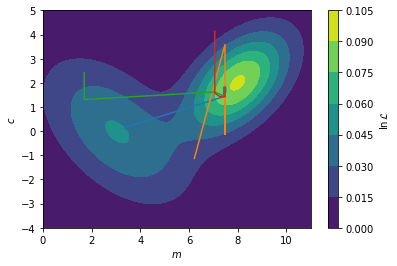
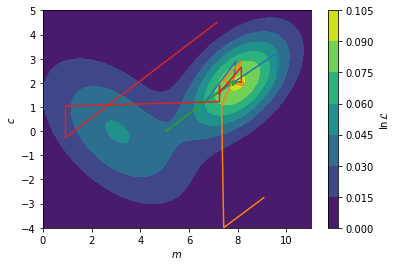
deploy: 765b48756c8c300f2725dfa39036137ef8b84e3c

diff --git a/searchindex.js b/searchindex.js
@@ -1,1 +1,1 @@
-Search.setIndex({docnames:["1_the_fourier_transform/an_introduction_to_fourier_transforms","1_the_fourier_transform/fourier_transforms_for_reflectometry_analysis","2_model_dependent_analysis/what_is_model_dependent_analysis","3_reflectometry_slab_models/how_we_calculate_the_reflectivity_of_a_slab_model","3_reflectometry_slab_models/roughness_and_microslicing","3_reflectometry_slab_models/the_slab_model","4_model_reparameterisation/a_case_for_model_reparameterisation","4_model_reparameterisation/niti_multilayer_example","4_model_reparameterisation/phospholipid_monolayer_example","5_fitting_processes_and_problems/how_do_we_maximise_the_likelihood","5_fitting_processes_and_problems/how_to_leverage_our_prior_knowledge","5_fitting_processes_and_problems/what_is_the_likelihood","contributors","intro"],envversion:{"sphinx.domains.c":2,"sphinx.domains.changeset":1,"sphinx.domains.citation":1,"sphinx.domains.cpp":5,"sphinx.domains.index":1,"sphinx.domains.javascript":2,"sphinx.domains.math":2,"sphinx.domains.python":3,"sphinx.domains.rst":2,"sphinx.domains.std":2,"sphinx.ext.intersphinx":1,"sphinxcontrib.bibtex":9,sphinx:56},filenames:["1_the_fourier_transform/an_introduction_to_fourier_transforms.md","1_the_fourier_transform/fourier_transforms_for_reflectometry_analysis.ipynb","2_model_dependent_analysis/what_is_model_dependent_analysis.md","3_reflectometry_slab_models/how_we_calculate_the_reflectivity_of_a_slab_model.ipynb","3_reflectometry_slab_models/roughness_and_microslicing.ipynb","3_reflectometry_slab_models/the_slab_model.md","4_model_reparameterisation/a_case_for_model_reparameterisation.md","4_model_reparameterisation/niti_multilayer_example.ipynb","4_model_reparameterisation/phospholipid_monolayer_example.ipynb","5_fitting_processes_and_problems/how_do_we_maximise_the_likelihood.ipynb","5_fitting_processes_and_problems/how_to_leverage_our_prior_knowledge.md","5_fitting_processes_and_problems/what_is_the_likelihood.ipynb","contributors.md","intro.md"],objects:{},objnames:{},objtypes:{},terms:{"0":[1,3,4,8,9,10,11,13],"000":9,"00039":13,"001":[1,3,4],"00260":13,"003":13,"0053":13,"007":13,"012":13,"01980001503076100":13,"02":13,"022":[7,13],"02614057":9,"0294":13,"03":13,"033":9,"04493869":9,"0469":13,"04893":13,"0496667614679125":11,"06":[4,7],"07":13,"074":1,"074e":[1,4],"078":13,"092":9,"0j":[3,4],"1":[0,1,3,4,7,8,9,10,11,13],"10":[1,4,7,9,11,13],"1000":[1,3,8,9,11],"1008202821328":13,"1016":13,"1023":13,"1039":13,"104":1,"1051":13,"107":13,"108":13,"1098":13,"11":[9,13],"1103":13,"1107":13,"1119":13,"1198":13,"12":[4,11,13],"1204":13,"14":4,"15":[8,13],"155":13,"16":[1,3],"167":9,"17":4,"1761":13,"1763":13,"18":[8,13],"186":1,"186e":[1,3,4],"19":[8,9,13],"193":13,"1948":13,"194812030504":13,"1954":13,"197":13,"1980":13,"1997":13,"1998":13,"1999":13,"1e":4,"1f77b4":11,"1j":[1,3],"2":[1,2,3,4,7,9,11,13],"20":[1,3,4],"200":[1,3,4,13],"2005":13,"2006":13,"2007":13,"2010":13,"2011":13,"2018":13,"2019":13,"2021":13,"2022":13,"20384101638663543":11,"204":13,"21":13,"23":7,"248":13,"25e":4,"265":8,"265n_c":8,"2827":13,"2848":13,"297":13,"2k_nk_":4,"3":[1,3,4,5,7,9,11,13],"300":[1,3],"311":13,"3254017":13,"33":13,"338":13,"339":13,"341":13,"342":13,"357":13,"359":13,"369":13,"370":13,"3blue1brown":0,"3e":7,"4":[1,3,4,5,7,9,11,13],"40":13,"41":13,"417":7,"417e":7,"418":13,"42":[11,13],"42370197":9,"4245e":4,"434":13,"438":7,"44":13,"4526":13,"47":[7,13],"471":13,"5":[1,3,4,8,9],"50":4,"500":[1,3,4],"504":13,"51":7,"52":13,"520":13,"53":13,"531":13,"54":13,"58":7,"59":13,"596":13,"5q":3,"6":[1,3,4,7,9,13],"6133":13,"6141":13,"63254653":9,"648":13,"649":13,"69":7,"7":[4,8,9,11],"761":13,"779":13,"78":13,"8":[4,7,9,11],"856832":13,"867":7,"87":13,"871":1,"871e":[3,4],"9":[4,7,13],"90":8,"908":7,"91":7,"922868":13,"95":13,"951e":7,"978":13,"98":[1,13],"99":13,"9957561":9,"99615666":9,"99998503":9,"99999727":9,"\u00e0":13,"\u00e5":[0,1,3,4,7,8],"\u00e8":13,"\u00e9":13,"\u00f6":13,"\u00fc":13,"abel\u00e8":[3,4],"abstract":7,"br\u00f6hl":13,"case":[5,10],"do":[1,2],"float":[7,9,11],"function":[1,2,3,4,5,8,9,11],"import":[1,2,3,4,5,6,7,8,9,11],"int":1,"new":13,"return":[1,3,7,9,11],"switch":13,"true":[6,9],"try":9,"while":[6,7],A:[1,2,4,5,7,8,9,13],As:[5,8],Be:9,By:2,For:[1,7,8,11,13],If:[1,2,9,10,11,13],In:[1,5,6,8,9,10,13],It:[2,4,5,8,9,10],No:4,One:8,The:[0,2,3,4,6,7,8,9,11,13],Then:[1,2,3],There:[4,9],These:[1,4,9],To:[1,4,6],_:[1,3],ab:[1,3],abel:[3,4,13],abeles48:[3,13],abeles_with_rough:4,abl:4,about:[6,8,9,10],abov:[1,2,4,7,9,11],abscissa:11,absolut:9,academ:13,accept:[1,10],account:4,accur:[2,4,6],acf2:1,acf:1,achiev:[4,8,10],across:11,act:8,action:1,ad:8,adapt:4,add:8,add_patch:4,addit:[1,6,8],addition:[2,3,4,6,7,9],admittedli:4,advanc:13,affect:8,after:[1,9],again:[1,4],against:5,agnet:13,agre:11,agreement:[2,9,11],aid:3,aim:[9,11,13],air:[1,4,8,13],al:6,alexand:12,algorithm:[2,9,10,13],all:[0,3,9,10],allow:[6,7,8,9],alon:9,alonso:13,alpha:11,alreadi:[2,10],also:[4,7,8],although:1,am:13,amphiphil:8,an:[2,4,5,6,9,10,13],analog:[0,9,11],analys:[9,13],analysi:[3,5,7,8,9,10,11,13],analyt:2,andbook:13,andrew:[12,13],angstrom:7,ani:[4,11],ann:13,anomagnet:13,anoth:1,anphi:13,apm:8,append:9,appl:13,appli:[1,2,4,6,8,9,13],applic:[3,9,13],approach:[1,2,3,4,5,6,7,8,9,13],approx:1,approxim:[3,13],ar:[0,1,2,3,4,5,6,7,8,9,10,11,13],area:6,argmax:9,argsort:9,armstrong:12,arnold:[12,13],around:4,arrai:[1,3,4,7,9],artefact:4,artifici:13,artur:12,ask:13,assembl:8,assess:9,assign:7,associ:[10,11,13],assum:8,assumpt:[2,6,7,8],ateri:13,atom:[7,8],attach:8,attent:13,australian:12,autocorrel:1,avail:1,avogadro:7,awar:[2,9],ax:[4,11],axhlin:1,b:[3,7,13],b_:[3,7],b_i:[7,8],b_ni:7,b_ti:7,back:9,balakrishnan:12,bar:[3,11],base:[2,3,7],basic:13,bay:[10,13],bayesian:[10,13],becom:[1,9],been:[1,3,4,7,8],befor:[0,4,5],begin:3,being:[2,4,11,13],belief:10,believ:2,below:[0,1,3,4,5,7,8,9,11],benefit:8,berk:13,best:[8,9,11],beta:[1,3,4,7,8],beta_0:3,beta_1:5,beta_2:5,beta_:[1,7,8],beta_i:8,beta_microsl:4,beta_n:3,beta_ni:7,beta_ti:7,between:[0,1,2,3,4,5,9,11,13],bia:2,bias:10,bigg:[1,11],biolog:[9,13],bj:13,bjorck11:[9,13],black:[1,9],block:13,blue:[1,9,11],bmatrix:3,book:[1,10,13],born:[3,13],borrow:1,both:[8,13],bound:[7,10],bowen:13,bp63:[10,13],brian:12,bring:3,broad:[2,11],broadli:2,brought:3,bsd:3,c9cp00203k:13,c:[1,9,11,13],calcul:[1,2,4,5,8,11],call:5,callback:9,campbel:13,can:[1,2,3,4,5,6,7,8,9,10,11],cannot:[4,11],caract:13,carbon:8,carefulli:9,caruana:12,cation:13,catter:13,caus:8,caution:6,cdot:7,centr:12,chanc:13,chang:[1,2,9],character:13,characterist:3,characteristic_matric:3,chem:13,chemic:[5,6,13],chemistri:2,chi:11,chicago:12,circ:8,clark:13,clear:[2,4,5,9],clearer:3,clearli:4,clifton:13,close:3,cm:7,coci:13,code:[4,7,9,13],colloid:13,color:11,colorbar:9,comfort:13,common:[2,4,5,7,8,9],commonli:[6,9,11],companion:13,compar:[2,3,4,6,11],comparison:5,complementari:6,complet:[2,9],complex:[3,8,9,13],composit:8,computation:9,concept:6,conclus:9,condens:13,conj:3,conjug:3,consid:[1,2,3,4,5,7,8,9,10,11],consider:9,consist:[5,7,8],constant:[2,7,10],constrain:[7,8],constraint:[6,8],construct:[2,3,5,10],consult:8,content:13,context:2,continu:13,contourf:9,contrast:9,contribut:13,convers:6,cooper:12,could:[5,10],coupl:9,cours:13,cover:[2,13],creat:4,croce:[4,13],crystallogr:13,crystallographi:1,css:[8,13],cubitt:13,curr:13,current:[9,13],current_theta:9,curve_fit:11,d:[1,3,4,11,13],d_1:5,d_2:5,d_h:8,d_i:8,d_microsl:4,d_n:3,d_t:8,dan:13,data:[1,2,3,4,5,6,7,8,9,10,11,13],databas:7,datapoint:11,dataset:[9,11],de:13,decomposit:0,deep:13,def:[1,3,7,9,11],defin:[1,2,5,6,7,8,11],deg2rad:8,delta:1,denot:1,densiti:[1,3,4,5,6,8],depend:[5,7,8,9,10,11,13],deposit:7,deriv:[1,5],descent:9,describ:[2,3,4,5,6,9,10,11],descript:[1,6,8],design:10,desir:[7,9],deslatt:13,destruct:5,detail:[0,1,2],detector:5,determin:[3,9,13],develop:13,deviat:[3,11],devind:[1,10,13],diatom:2,diff:[1,3],differ:[1,4,5,13],differenti:[9,10,13],differential_evolut:9,difficult:8,dimens:[1,5],dimension:9,dioxid:[1,4],directli:7,discoveri:9,discuss:[1,4,5,11],disposit:7,distribut:[9,11],divid:1,docstr:3,doctrin:13,doe:[2,3,4],doi:13,domain:0,done:11,dot:11,downhil:9,dppc:8,dr:[1,10],draw:[9,13],dtype:3,du:13,due:[1,2],dura:13,dvanc:13,e:[5,13],each:[3,4,5,7,8],easili:[7,9],edgecolor:4,edit:13,editor:13,edler:13,effect:[1,4,9,13],effici:13,eflect:13,elast:0,element:[7,11],elementari:[1,13],eleph:13,els:2,enabl:[4,10],encount:[2,9],end:3,ensur:[2,9],entir:2,enumer:11,enzym:2,equat:[1,2],error:[4,11],errorbar:11,essai:13,essenti:0,estim:1,et:6,euroepan:12,european:13,eutect:13,eutron:13,evalu:[7,13],eventu:9,ever:2,everi:8,evolut:[9,10,13],evolutionari:9,exampl:[2,4,5,6,9,10],exhaust:13,exist:[4,9],exp:[1,3,4],expect:[2,10],experi:[2,13],experiment:[2,5,6,11],expert:13,explicitli:1,exploit:13,extend:8,extrem:8,f:[3,7,13],fact:10,factor:[3,11],fair:2,fals:4,familiar:[1,2,6],fantast:1,far:11,fashion:9,feed:9,feedback:13,feel:13,fernandez:13,ff7f0e:11,field:[8,13],fig:[2,4,5,8,11],figsiz:[4,11],figur:[1,2,4,9,11,13],fill:4,fill_between:11,find:[1,2,4,7,8,9,10,11,13],first:[1,2,3,5,6,7,9,11],fit:[2,6,7,9,11],fitzsimmon:13,flat:[1,4],flavour:[6,9],flexion:13,flow:2,fm05:13,fm:7,focus:0,follow:[1,7,8,9,11,13],forc:2,form:[1,9],formal:[3,4],format:13,found:[1,3,4,7,8,9,10],four:13,fourier:[2,3,5,13],fourier_transform:1,frac:[1,3,4,7,8,10,11],fraction:8,francoi:12,free:[6,9,13],frensel:3,fresnel:[3,4],fresnel_reflect:3,from:[0,1,2,3,4,5,6,7,8,9,11,13],full:1,fulli:8,fundament:[0,5],further:[9,10],g:[7,13],gaetano:12,garbag:2,gcm:7,gener:[2,9,13],genet:13,geometri:5,gerelli:13,get:[2,11],github:13,give:[0,3,6,13],given:[4,5,8,9,11],glavic:12,glob:13,global:[9,13],go:[3,5,9],good:11,gradient:11,gradient_callback:9,gradient_v:9,gradual:13,graphic:7,great:[0,10],greater:1,group:8,grutter:12,guess:9,guntherodt:13,h:13,ha:[1,4,7,8,13],hall:12,hand:4,hard:7,harder:9,have:[1,2,3,8,9,10,11],head:8,heavili:[8,11,13],heavisid:1,heinrich:13,helmholtz:12,helper:[4,9],henc:[0,11],henomena:13,here:[3,11],hereon:12,heurist:13,higher:8,hoogerheid:13,hopefulli:5,horizont:1,how:[2,5,6,8,11,13],howard:13,howev:[1,2,4,5,6,7,9,11],hydrocarbon:8,hydrophil:8,hydrophob:[8,13],i:[1,3,5,7,8,11],identifi:4,ignor:4,illinoi:12,impact:[0,4],implement:[3,4,9],impli:4,impos:10,improv:2,inaccur:4,incid:[1,5],includ:[0,2,3,7,8,13],incorrectli:4,increas:[4,9,11],independ:2,indic:[1,9,11],individu:[3,7],induc:13,influenc:4,inform:[1,6,13],infti:1,inher:2,initi:9,input:3,insect:9,insight:[2,13],insolubl:8,inspir:9,instead:[1,3,7,9,10],institut:12,instrument:8,integr:10,intens:[1,9],interact:[0,1],intercal:8,intercept:11,interest:[0,2,13],interfac:[3,4,5,8,13],interfer:5,interpret:[2,4],interrog:[4,9],introduc:[2,4,5,6,8,10],introduct:10,inv_fourier_transform:1,invers:[1,13],investig:[1,2,6,9],involv:[5,7],isbn:13,isi:[12,13],isotop:9,issu:[1,13],its:7,j:13,jackson:13,jci:13,jean:12,john:[6,13],joshaniel:12,jpsc21:[6,13],k0:3,k:[1,3,9,13],k_0:3,k_:[3,4],k_n:[3,4],karin:13,khairi:13,kienzl:13,kinet:2,kn:3,knowledg:13,known:[2,4,8],kronm:13,l:[9,10,11,13],la:13,label:[1,3,4,9],lak19:13,lakei:13,languag:[6,13],larg:[1,13],later:[5,7],latter:6,lawrenc:13,layer:[3,4,5,7,8],le:13,lead:[0,2,4,5],leak:4,learn:8,lectromagn:13,lectur:13,left:4,legend:[1,3,4],length:[1,3,4,5,6,8],less:5,let:[0,1,10],licens:3,light:13,like:[2,4,8,10],likelihood:10,limit:[1,2,7,8],line:[1,9,11],linearli:11,linspac:[1,3,4,8,9,11],lipid:13,liquid:13,list:13,literatur:8,ller:13,ln:[9,11],loadtxt:11,local:9,log:[1,3,4,11],logic:[2,10,13],logpdf:9,lond:13,look:[0,1,2,3,6,9,10,11],loss:1,lost:5,lovel:13,low:3,lr99:[2,13],ls:11,lw:11,m:[3,9,11,13],m_:[3,7],m_w:7,m_w_ni:7,m_w_ti:7,made:[2,6,7],magnet:13,magnitud:1,mai:[1,2,6,7,11,13],majkrzak:13,major:[7,11],make:[2,3,6,8,13],mangiapia:12,mani:[9,13],maranvil:12,mark:12,marker:11,mass:6,match:1,materi:[1,3,4,5,7],mathcal:[9,10,11],mathemat:13,mathit:[1,3],mathrm:[1,3,7,8,11],matnei:13,matplotlib:[1,3,4,8,9,11],matric:3,matrix:[3,4],matter:[7,13],matyszewska:13,max:[1,3,11],maxima:9,maximilian:12,maximis:[10,11],maximum:[8,9,10,11],mayer:13,mbd:[1,13],mccluskei:[12,13],mead:9,mean:[1,4,7,8,9,11],measur:[0,1,2,5,6,10,11,13],media:3,member:9,membran:13,menten:2,mention:8,merit:2,meshgrid:9,method:[3,4,13],methodolog:[1,2,4,9],metri:13,metric:[9,11],micel:13,micha:2,might:[2,13],milieux:13,minim:9,minimis:[9,11],minimum:[9,10],mkh10:[2,13],modal:9,model:[1,4,7,8,9,10,11,13],modifi:[3,4],modul:[4,9],mol:7,molecul:[2,6],molecular:7,monolay:13,more:[0,2,4,6,7,8,9,10,11],most:[3,4,5,9],moulin:12,move:9,movement:13,msfe:[8,13],much:[3,5],multi:9,multivariate_norm:9,muon:12,must:[2,4,8],mv1:9,mv2:9,mv:9,n:[3,4,7,8,11,13],n_:[3,11],n_a:7,n_c:8,nanostructur:13,nation:12,natur:[6,8],nazaruk:13,ndarrai:[1,3,7,9,11],nearbi:9,necessari:[3,4,9],need:2,neg:9,nelder:9,nelson:[12,13],neutron:[0,1,2,3,5,6,7,9,12],nevot:4,nevotc80:[4,13],newaxi:[1,3],ni:7,nickel:[4,7],nll:9,nois:1,noisi:1,non:9,none:9,norm:11,normal:[1,3,9,11],normal_wavevector:3,normalis:[1,11],note:[1,2,8,9],notic:[4,11],now:[0,3,4,8,9,11],np19:[3,13],np:[1,3,4,7,8,9,11],nuanc:5,number:[1,6,7,8,9,11],number_lay:3,number_q:3,numpi:[1,3,4,7,8,9,11],o:11,observ:[1,4,5,11],obtain:[1,4,7],obvious:5,offer:2,often:13,olar:13,onc:[9,13],ond:13,one:[8,9,10,11],ones:3,ones_lik:4,onli:[1,4,7,8,11],onlin:7,open:13,opin:13,opinion:13,optim:[9,11,13],optimis:[8,9],optimum:9,orang:[9,11],order:[5,9],organis:13,origin:13,other:[8,11],our:[1,2,4,5,6,7,8,9,11],out:[2,10],outsid:10,over:13,overal:[3,9,11],overview:0,oxford:13,p0:3,p1:3,p:[10,11,13],packag:[3,7],page:13,pai:13,panaccion:13,paper:13,par54:[3,13],par:13,param:[1,3,7,11],paramet:[3,4,5,6,7,8,9,10,11,13],parameteris:[6,8,13],pari:13,parker:13,parkin:13,parratt:[3,13],part:[1,11],particl:9,particular:[5,6],particularli:13,patch:4,path:[5,9],pattern:[0,5],paul:12,pdf:[9,11],peak:1,pedulla:13,per:6,perfect:4,perfectli:4,perform:[0,1,11],perpendicular:1,pg:1,phase:[1,2,3,13],phase_factor:3,phi:3,phi_0:3,phi_i:8,phi_n:3,phi_t:3,phil:13,phospholipid:13,phy:13,physic:[1,2,5,6,8,13],physica:13,physrev:13,pi:[1,3,11],pictori:8,piec:[1,4,7],pint:7,place:10,plane:[1,8],pleas:13,plot:[1,3,4,8,9,11,13],plt:[1,3,4,8,9,11],point:11,polar:13,polissag:13,popul:9,popular:2,posit:9,possibl:[1,2,4,5,8,9,11],posterior:10,prepar:[2,7],prescott:13,present:[1,2,4],press:13,pressur:8,preston:13,previou:[2,6],previous:[3,4,6,8],price:13,print:[7,9],probabl:[10,11],probe:[2,9,10],problem:[1,2,9,13],procedur:13,process:[2,6,7,9,13],prod:3,produc:[1,2,13],product:3,profil:[1,4,5],program:13,propag:[3,5,13],propos:2,propto:10,purnima:12,py:[4,9],pyplot:[1,3,4,8,9,11],python:[3,13],q2:1,q:[0,1,2,3,4,13],q_:1,q_x:1,q_y:1,qualiti:9,quantifi:9,quantiti:13,quelqu:13,question:13,quick:1,r2:1,r:[1,3,4,5,8,12,13],r_:[3,4],r_abel:3,r_fourier:3,r_microsl:4,r_nevot_croc:4,r_with_rough:4,radiat:[0,1],rai:[1,13],random:9,rang:[1,2,3,4,9,13],rasant:13,rather:[2,6,7],ratio:5,ration:9,rayon:13,rck:13,re:9,reach:[7,9],read:13,real:[3,4,5],realli:2,reason:7,recent:[8,13],reciev:13,rectangl:4,recurs:3,red:4,reduc:[6,8],refin:5,reflect:[1,2,4,5],reflecto:13,reflectometri:[0,2,3,4,5,6,7,8,9,11],refnx:[3,13],refract:[3,5],region:[1,4,8,9],relat:7,relationship:1,relev:[8,13],reli:3,render:1,reparameteris:[5,7,8,11,13],repeat:7,repositori:13,repres:[2,11],reproduc:3,requir:[6,13],res1:9,res2:9,resolut:[1,2],respect:1,result:[1,2,3,4,5,9],resultant_matrix:3,retriv:1,rev:13,review:13,rewrit:1,rho:[3,7],rho_:7,rho_ni:7,rho_ti:7,rho_to_beta:7,richardson:13,right:4,risat:13,robust:9,room:7,root:9,rout:9,rphysap:13,rsta:13,rstl:13,rule:4,s0021889811041446:13,s0921:13,s1359:13,s1600576718017016:13,s1600576718017296:13,s:[0,1,7,8,9,10,13],saaka:13,sai:1,same:[4,5,7,11],sampl:[0,1,2,4,7],sanchez:13,sansom:13,satija:13,scale:[1,13],scatter:[0,1,3,4,5,6,8,12,13],sche:13,scherrer:12,schlossman:12,school:13,sci:13,scienc:[2,13],scipi:[7,9,11],search:13,section:[2,5,6,9],see:[4,5,9],seen:[10,11],select:11,self:8,semi:9,sensit:1,seri:[3,4,5],set:7,set_xlabel:[4,11],set_xlim:4,set_ylabel:[4,11],set_ylim:4,shao:13,shape:[3,9],shortest:4,should:[1,4,6,8,9,11,13],show:[1,2,3,4,5,7,8,9,11,13],shown:[1,2,3,4,5,8,9,11],si:1,sigma2:4,sigma3:4,sigma5:4,sigma7:4,sigma:[4,11],sigma_:4,sigma_n:11,silic:13,silicon:[1,4,7],similar:[2,3],simpl:[1,2,5,6,7,8,9,10,13],simpli:9,simul:[2,4,5,6,7],sin:8,singl:[8,11],sio_2:1,sit:[8,11],siv11:[1,13],sivia:[1,10,13],sj06:[10,13],skill:13,skip:13,sko19:13,skoda:[12,13],slab:[4,6,8,13],sld_with_rough:4,smooth:[1,4],so:11,soc:13,soft:13,solid:13,solubl:8,solut:9,solv:13,solvat:8,solvent:[8,13],some:[0,1,2,4,5,8,9,10,11,13],someth:[0,2],son:13,sourc:[12,13],sp97:[9,13],space:[0,9,13],spallat:[12,13],speak:8,specif:[6,8],spectra:2,specular:13,spintron:13,springer:13,sqrt:3,squar:[1,3],sratifi:13,staff:8,standard:[11,12,13],start:[9,10],stat:[9,11],state:10,step:[4,9,10],stephen:12,still:[4,7],storn:13,straight_lin:11,straightforward:6,strand:8,stratifi:3,structur:[1,2,6,7,13],studi:[1,2,8,13],subject:13,subplot:[4,11],suggest:[10,13],sum:[1,3,7],sum_:[7,8,11],summat:11,superphas:3,sur:13,sure:13,surfac:[1,3,7,13],surfact:13,swarm:9,synthesi:2,system:[1,2,4,5,6,7,8,9,13],t:[9,13],t_t:8,tackl:2,tail:8,take:[0,2,9,10],taken:[3,5],tan80:[8,13],tanford:[8,13],techniqu:[6,13],technolog:12,temperatur:7,tend:1,term:[5,7,8,11],textquotesingl:13,than:[1,4,7,9],thei:[9,13],them:[4,11],theorem:10,theori:[1,13],therefor:[2,4,6,7,9,10],theta:[8,9,10,11],thi:[0,1,2,3,4,5,6,7,8,9,10,11],thick:[1,3,4,5,8],thin:4,thing:2,think:6,those:10,thought:1,three:[2,7],through:[3,4,5,13],thumb:4,tight_layout:11,time:[0,1,4,7],tiqu:13,titanium:7,tkh:[9,13],togeth:3,tom:12,tool:[1,2,6],top4:9,top:1,toperverg:13,total:13,toward:[1,9,13],tradit:[7,8,13],tran:13,transform:[2,3,5,13],translat:6,transmitt:3,treec:13,trigonometri:8,tude:13,turn:9,tutori:[10,13],two:[2,3,4,5,6,8,9],txt:11,typic:[2,4,5,6,7,8,9,11],tz07:13,u:7,uantum:13,uncertainti:11,unclear:7,under:[1,3,8],underli:[2,11],understand:[2,3,5,6,10,13],unintuit:6,uniqu:9,unit:0,unitregistri:7,univers:[12,13],unlik:8,unphys:[1,4],until:7,up:9,uphil:9,us:[2,3,4,6,7,8,9,10,11,13],useless:1,user:[1,13],utilis:1,valu:[1,3,7,8,9,10,11],vari:[7,9],variabl:7,varieti:9,vector:3,veri:[4,8,9],verr:13,version:1,vibrat:2,video:0,visualis:[1,4],vot:13,w:[7,13],wa:[1,2,5,10,13],wai:[2,8],watch:0,water:[8,13],wave:[3,5],wavevector:[1,3],wc19:13,we:[0,1,2,4,5,6,7,8,10,11,13],weight:7,welbourn:13,well:2,were:10,what:13,when:[3,5,8,9,10,11],where:[1,2,3,4,5,7,8,9,10,11],which:[0,1,3,4,7,8,9,10,11],width:4,wiesendang:13,wilei:13,within:10,without:[1,2,4],word:[2,13],work:[4,6,13],workflow:2,workshop:13,wormington:13,would:[2,4,5,8,10],wpmb99:[9,13],written:[1,11],wwe:8,x:[1,9,11,13],x_n:11,xlabel:[1,3,4,8,9],xy:8,y:[9,10,11,13],y_fit:11,y_n:11,ylabel:[1,3,4,8,9],you:[1,2,10,11,13],your:[8,13],yscale:[1,3,4],yy:11,z:[1,3,4,5],zabel:13,zentrum:12,zero:3,zeros_lik:[1,3],zhou:13,zorder:11,zq:1,ztbt07:13},titles:["An introduction to Fourier transforms","Fourier transforms for reflectometry analysis","What is model-dependent analysis?","How we calculate the reflectivity of a slab model","Roughness and microslicing","The \u201cslab model\u201d","A case for model reparameterisation","NiTi multilayer example","Phospholipid monolayer example","How do we maximise the likelihood?","How to leverage our prior knowledge?","What is the likelihood?","Contributors","Introduction to neutron reflectometry fitting"],titleterms:{"case":6,"do":9,A:[6,10],The:[1,5],about:13,algorithm:3,an:[0,1],analysi:[1,2],angl:8,approxim:1,area:8,bibliographi:13,born:1,calcul:3,chain:8,contributor:12,densiti:7,depend:2,exampl:[1,7,8],fit:13,fourier:[0,1],gradient:9,how:[3,9,10],interfac:1,interfaci:4,introduct:[0,13],knowledg:10,layer:1,length:7,leverag:10,likelihood:[9,11],mass:7,materi:13,maximis:9,method:9,microsl:4,model:[2,3,5,6],molecul:8,monolay:8,multilay:7,neutron:13,niti:7,our:10,oxid:1,per:8,phospholipid:8,prior:10,problem:4,reflect:[3,13],reflectometri:[1,13],reparameteris:6,rough:4,scatter:7,singl:1,slab:[3,5],specular:1,stochast:9,thi:13,tilt:8,transform:[0,1],uniform:10,us:1,vs:13,we:[3,9],what:[0,2,11]}})
+Search.setIndex({docnames:["1_the_fourier_transform/an_introduction_to_fourier_transforms","1_the_fourier_transform/fourier_transforms_for_reflectometry_analysis","2_model_dependent_analysis/what_is_model_dependent_analysis","3_reflectometry_slab_models/how_we_calculate_the_reflectivity_of_a_slab_model","3_reflectometry_slab_models/roughness_and_microslicing","3_reflectometry_slab_models/the_slab_model","4_model_reparameterisation/a_case_for_model_reparameterisation","4_model_reparameterisation/niti_multilayer_example","4_model_reparameterisation/phospholipid_monolayer_example","5_fitting_processes_and_problems/how_do_we_maximise_the_likelihood","5_fitting_processes_and_problems/how_to_leverage_our_prior_knowledge","5_fitting_processes_and_problems/what_is_the_likelihood","contributors","intro"],envversion:{"sphinx.domains.c":2,"sphinx.domains.changeset":1,"sphinx.domains.citation":1,"sphinx.domains.cpp":5,"sphinx.domains.index":1,"sphinx.domains.javascript":2,"sphinx.domains.math":2,"sphinx.domains.python":3,"sphinx.domains.rst":2,"sphinx.domains.std":2,"sphinx.ext.intersphinx":1,"sphinxcontrib.bibtex":9,sphinx:56},filenames:["1_the_fourier_transform/an_introduction_to_fourier_transforms.md","1_the_fourier_transform/fourier_transforms_for_reflectometry_analysis.ipynb","2_model_dependent_analysis/what_is_model_dependent_analysis.md","3_reflectometry_slab_models/how_we_calculate_the_reflectivity_of_a_slab_model.ipynb","3_reflectometry_slab_models/roughness_and_microslicing.ipynb","3_reflectometry_slab_models/the_slab_model.md","4_model_reparameterisation/a_case_for_model_reparameterisation.md","4_model_reparameterisation/niti_multilayer_example.ipynb","4_model_reparameterisation/phospholipid_monolayer_example.ipynb","5_fitting_processes_and_problems/how_do_we_maximise_the_likelihood.ipynb","5_fitting_processes_and_problems/how_to_leverage_our_prior_knowledge.md","5_fitting_processes_and_problems/what_is_the_likelihood.ipynb","contributors.md","intro.md"],objects:{},objnames:{},objtypes:{},terms:{"0":[1,3,4,8,9,10,11,13],"000":9,"00039":13,"001":[1,3,4],"00260":13,"003":13,"0053":13,"007":13,"00801109":9,"012":13,"01980001503076100":13,"02":13,"022":[7,13],"02614057":9,"0294":13,"03":13,"033":9,"04493869":9,"0469":13,"04893":13,"0496667614679125":11,"06":[4,7],"07":13,"074":1,"074e":[1,4],"078":13,"092":9,"0j":[3,4],"1":[0,1,3,4,7,8,9,10,11,13],"10":[1,4,7,9,11,13],"1000":[1,3,8,9,11],"1008202821328":13,"1016":13,"1023":13,"1039":13,"104":1,"1051":13,"107":13,"108":13,"1098":13,"11":[9,13],"1103":13,"1107":13,"1119":13,"1198":13,"12":[4,11,13],"1204":13,"14":4,"15":[8,13],"155":13,"16":[1,3],"167":9,"17":4,"1761":13,"1763":13,"18":[8,13],"186":1,"186e":[1,3,4],"19":[8,9,13],"193":13,"1948":13,"194812030504":13,"19516583":9,"1954":13,"197":13,"1980":13,"1997":13,"1998":13,"1999":13,"1e":4,"1f77b4":11,"1j":[1,3],"2":[1,2,3,4,7,9,11,13],"20":[1,3,4],"200":[1,3,4,13],"2005":13,"2006":13,"2007":13,"2010":13,"2011":13,"2018":13,"2019":13,"2021":13,"2022":13,"20384101638663543":11,"204":13,"21":13,"23":7,"248":13,"25e":4,"265":8,"265n_c":8,"2827":13,"2848":13,"297":13,"2k_nk_":4,"3":[1,3,4,5,7,9,11,13],"300":[1,3],"311":13,"3254017":13,"33":13,"338":13,"339":13,"341":13,"342":13,"357":13,"359":13,"369":13,"370":13,"3blue1brown":0,"3e":7,"4":[1,3,4,5,7,9,11,13],"40":13,"41":13,"417":7,"417e":7,"418":13,"42":[11,13],"4245e":4,"434":13,"438":7,"44":13,"4526":13,"47":[7,13],"471":13,"5":[1,3,4,8,9],"50":4,"500":[1,3,4],"504":13,"51":7,"52":13,"520":13,"53":13,"531":13,"54":13,"58":7,"59":13,"596":13,"5q":3,"6":[1,3,4,7,9,13],"6133":13,"6141":13,"648":13,"649":13,"69":7,"7":[4,8,9,11],"761":13,"779":13,"78":13,"8":[4,7,9,11],"856832":13,"867":7,"87":13,"871":1,"871e":[3,4],"9":[4,7,13],"90":8,"908":7,"91":7,"922868":13,"95":13,"951e":7,"978":13,"98":[1,13],"99":13,"9957561":9,"99615666":9,"99998503":9,"99999727":9,"\u00e0":13,"\u00e5":[0,1,3,4,7,8],"\u00e8":13,"\u00e9":13,"\u00f6":13,"\u00fc":13,"abel\u00e8":[3,4],"abstract":7,"br\u00f6hl":13,"case":[5,10],"do":[1,2],"float":[7,9,11],"function":[1,2,3,4,5,8,9,11],"import":[1,2,3,4,5,6,7,8,9,11],"int":1,"new":13,"return":[1,3,7,9,11],"switch":13,"true":[6,9],"try":9,"while":[6,7],A:[1,2,4,5,7,8,9,13],As:[5,8],Be:9,By:2,For:[1,7,8,11,13],If:[1,2,9,10,11,13],In:[1,5,6,8,9,10,13],It:[2,4,5,8,9,10],No:4,One:8,The:[0,2,3,4,6,7,8,9,11,13],Then:[1,2,3],There:[4,9],These:[1,4,9],To:[1,4,6],_:[1,3],ab:[1,3],abel:[3,4,13],abeles48:[3,13],abeles_with_rough:4,abl:4,about:[6,8,9,10],abov:[1,2,4,7,9,11],abscissa:11,absolut:9,academ:13,accept:[1,10],account:4,accur:[2,4,6],acf2:1,acf:1,achiev:[4,8,10],across:11,act:8,action:1,ad:8,adapt:4,add:8,add_patch:4,addit:[1,6,8],addition:[2,3,4,6,7,9],admittedli:4,advanc:13,affect:8,after:[1,9],again:[1,4],against:5,agnet:13,agre:11,agreement:[2,9,11],aid:3,aim:[9,11,13],air:[1,4,8,13],al:6,alexand:12,algorithm:[2,9,10,13],all:[0,3,9,10],allow:[6,7,8,9],alon:9,alonso:13,alpha:11,alreadi:[2,10],also:[4,7,8],although:1,am:13,amphiphil:8,an:[2,4,5,6,9,10,13],analog:[0,9,11],analys:[9,13],analysi:[3,5,7,8,9,10,11,13],analyt:2,andbook:13,andrew:[12,13],angstrom:7,ani:[4,11],ann:13,anomagnet:13,anoth:1,anphi:13,apm:8,append:9,appl:13,appli:[1,2,4,6,8,9,13],applic:[3,9,13],approach:[1,2,3,4,5,6,7,8,9,13],approx:1,approxim:[3,13],ar:[0,1,2,3,4,5,6,7,8,9,10,11,13],area:6,argmax:9,argsort:9,armstrong:12,arnold:[12,13],around:4,arrai:[1,3,4,7,9],artefact:4,artifici:13,artur:12,ask:13,assembl:8,assess:9,assign:7,associ:[10,11,13],assum:8,assumpt:[2,6,7,8],ateri:13,atom:[7,8],attach:8,attent:13,australian:12,autocorrel:1,avail:1,avogadro:7,awar:[2,9],ax:[4,11],axhlin:1,b:[3,7,13],b_:[3,7],b_i:[7,8],b_ni:7,b_ti:7,back:9,balakrishnan:12,bar:[3,11],base:[2,3,7],basic:13,bay:[10,13],bayesian:[10,13],becom:[1,9],been:[1,3,4,7,8],befor:[0,4,5],begin:3,being:[2,4,11,13],belief:10,believ:2,below:[0,1,3,4,5,7,8,9,11],benefit:8,berk:13,best:[8,9,11],beta:[1,3,4,7,8],beta_0:3,beta_1:5,beta_2:5,beta_:[1,7,8],beta_i:8,beta_microsl:4,beta_n:3,beta_ni:7,beta_ti:7,between:[0,1,2,3,4,5,9,11,13],bia:2,bias:10,bigg:[1,11],biolog:[9,13],bj:13,bjorck11:[9,13],black:[1,9],block:13,blue:[1,9,11],bmatrix:3,book:[1,10,13],born:[3,13],borrow:1,both:[8,13],bound:[7,10],bowen:13,bp63:[10,13],brian:12,bring:3,broad:[2,11],broadli:2,brought:3,bsd:3,c9cp00203k:13,c:[1,9,11,13],calcul:[1,2,4,5,8,11],call:5,callback:9,campbel:13,can:[1,2,3,4,5,6,7,8,9,10,11],cannot:[4,11],caract:13,carbon:8,carefulli:9,caruana:12,cation:13,catter:13,caus:8,caution:6,cdot:7,centr:12,chanc:13,chang:[1,2,9],character:13,characterist:3,characteristic_matric:3,chem:13,chemic:[5,6,13],chemistri:2,chi:11,chicago:12,circ:8,clark:13,clear:[2,4,5,9],clearer:3,clearli:4,clifton:13,close:3,cm:7,coci:13,code:[4,7,9,13],colloid:13,color:11,colorbar:9,comfort:13,common:[2,4,5,7,8,9],commonli:[6,9,11],companion:13,compar:[2,3,4,6,11],comparison:5,complementari:6,complet:[2,9],complex:[3,8,9,13],composit:8,computation:9,concept:6,conclus:9,condens:13,conj:3,conjug:3,consid:[1,2,3,4,5,7,8,9,10,11],consider:9,consist:[5,7,8],constant:[2,7,10],constrain:[7,8],constraint:[6,8],construct:[2,3,5,10],consult:8,content:13,context:2,continu:13,contourf:9,contrast:9,contribut:13,convers:6,cooper:12,could:[5,10],coupl:9,cours:13,cover:[2,13],creat:4,croce:[4,13],crystallogr:13,crystallographi:1,css:[8,13],cubitt:13,curr:13,current:[9,13],current_theta:9,curve_fit:11,d:[1,3,4,11,13],d_1:5,d_2:5,d_h:8,d_i:8,d_microsl:4,d_n:3,d_t:8,dan:13,data:[1,2,3,4,5,6,7,8,9,10,11,13],databas:7,datapoint:11,dataset:[9,11],de:13,decomposit:0,deep:13,def:[1,3,7,9,11],defin:[1,2,5,6,7,8,11],deg2rad:8,delta:1,denot:1,densiti:[1,3,4,5,6,8],depend:[5,7,8,9,10,11,13],deposit:7,deriv:[1,5],descent:9,describ:[2,3,4,5,6,9,10,11],descript:[1,6,8],design:10,desir:[7,9],deslatt:13,destruct:5,detail:[0,1,2],detector:5,determin:[3,9,13],develop:13,deviat:[3,11],devind:[1,10,13],diatom:2,diff:[1,3],differ:[1,4,5,13],differenti:[9,10,13],differential_evolut:9,difficult:8,dimens:[1,5],dimension:9,dioxid:[1,4],directli:7,discoveri:9,discuss:[1,4,5,11],disposit:7,distribut:[9,11],divid:1,docstr:3,doctrin:13,doe:[2,3,4],doi:13,domain:0,done:11,dot:11,downhil:9,dppc:8,dr:[1,10],draw:[9,13],dtype:3,du:13,due:[1,2],dura:13,dvanc:13,e:[5,13],each:[3,4,5,7,8],easili:[7,9],edgecolor:4,edit:13,editor:13,edler:13,effect:[1,4,9,13],effici:13,eflect:13,elast:0,element:[7,11],elementari:[1,13],eleph:13,els:2,enabl:[4,10],encount:[2,9],end:3,ensur:[2,9],entir:2,enumer:11,enzym:2,equat:[1,2],error:[4,11],errorbar:11,essai:13,essenti:0,estim:1,et:6,euroepan:12,european:13,eutect:13,eutron:13,evalu:[7,13],eventu:9,ever:2,everi:8,evolut:[9,10,13],evolutionari:9,exampl:[2,4,5,6,9,10],exhaust:13,exist:[4,9],exp:[1,3,4],expect:[2,10],experi:[2,13],experiment:[2,5,6,11],expert:13,explicitli:1,exploit:13,extend:8,extrem:8,f:[3,7,13],fact:10,factor:[3,11],fair:2,fals:4,familiar:[1,2,6],fantast:1,far:11,fashion:9,feed:9,feedback:13,feel:13,fernandez:13,ff7f0e:11,field:[8,13],fig:[2,4,5,8,11],figsiz:[4,11],figur:[1,2,4,9,11,13],fill:4,fill_between:11,find:[1,2,4,7,8,9,10,11,13],first:[1,2,3,5,6,7,9,11],fit:[2,6,7,9,11],fitzsimmon:13,flat:[1,4],flavour:[6,9],flexion:13,flow:2,fm05:13,fm:7,focus:0,follow:[1,7,8,9,11,13],forc:2,form:[1,9],formal:[3,4],format:13,found:[1,3,4,7,8,9,10],four:13,fourier:[2,3,5,13],fourier_transform:1,frac:[1,3,4,7,8,10,11],fraction:8,francoi:12,free:[6,9,13],frensel:3,fresnel:[3,4],fresnel_reflect:3,from:[0,1,2,3,4,5,6,7,8,9,11,13],full:1,fulli:8,fundament:[0,5],further:[9,10],g:[7,13],gaetano:12,garbag:2,gcm:7,gener:[2,9,13],genet:13,geometri:5,gerelli:13,get:[2,11],github:13,give:[0,3,6,13],given:[4,5,8,9,11],glavic:12,glob:13,global:[9,13],go:[3,5,9],good:11,gradient:11,gradient_callback:9,gradient_v:9,gradual:13,graphic:7,great:[0,10],greater:1,group:8,grutter:12,guess:9,guntherodt:13,h:13,ha:[1,4,7,8,13],hall:12,hand:4,hard:7,harder:9,have:[1,2,3,8,9,10,11],head:8,heavili:[8,11,13],heavisid:1,heinrich:13,helmholtz:12,helper:[4,9],henc:[0,11],henomena:13,here:[3,11],hereon:12,heurist:13,higher:8,hoogerheid:13,hopefulli:5,horizont:1,how:[2,5,6,8,11,13],howard:13,howev:[1,2,4,5,6,7,9,11],hydrocarbon:8,hydrophil:8,hydrophob:[8,13],i:[1,3,5,7,8,11],identifi:4,ignor:4,illinoi:12,impact:[0,4],implement:[3,4,9],impli:4,impos:10,improv:2,inaccur:4,incid:[1,5],includ:[0,2,3,7,8,13],incorrectli:4,increas:[4,9,11],independ:2,indic:[1,9,11],individu:[3,7],induc:13,influenc:4,inform:[1,6,13],infti:1,inher:2,initi:9,input:3,insect:9,insight:[2,13],insolubl:8,inspir:9,instead:[1,3,7,9,10],institut:12,instrument:8,integr:10,intens:[1,9],interact:[0,1],intercal:8,intercept:11,interest:[0,2,13],interfac:[3,4,5,8,13],interfer:5,interpret:[2,4],interrog:[4,9],introduc:[2,4,5,6,8,10],introduct:10,inv_fourier_transform:1,invers:[1,13],investig:[1,2,6,9],involv:[5,7],isbn:13,isi:[12,13],isotop:9,issu:[1,13],its:7,j:13,jackson:13,jci:13,jean:12,john:[6,13],joshaniel:12,jpsc21:[6,13],k0:3,k:[1,3,9,13],k_0:3,k_:[3,4],k_n:[3,4],karin:13,khairi:13,kienzl:13,kinet:2,kn:3,knowledg:13,known:[2,4,8],kronm:13,l:[9,10,11,13],la:13,label:[1,3,4,9],lak19:13,lakei:13,languag:[6,13],larg:[1,13],later:[5,7],latter:6,lawrenc:13,layer:[3,4,5,7,8],le:13,lead:[0,2,4,5],leak:4,learn:8,lectromagn:13,lectur:13,left:4,legend:[1,3,4],length:[1,3,4,5,6,8],less:5,let:[0,1,10],licens:3,light:13,like:[2,4,8,10],likelihood:10,limit:[1,2,7,8],line:[1,9,11],linearli:11,linspac:[1,3,4,8,9,11],lipid:13,liquid:13,list:13,literatur:8,ller:13,ln:[9,11],loadtxt:11,local:9,log:[1,3,4,11],logic:[2,10,13],logpdf:9,lond:13,look:[0,1,2,3,6,9,10,11],loss:1,lost:5,lovel:13,low:3,lr99:[2,13],ls:11,lw:11,m:[3,9,11,13],m_:[3,7],m_w:7,m_w_ni:7,m_w_ti:7,made:[2,6,7],magnet:13,magnitud:1,mai:[1,2,6,7,11,13],majkrzak:13,major:[7,11],make:[2,3,6,8,13],mangiapia:12,mani:[9,13],maranvil:12,mark:12,marker:11,mass:6,match:1,materi:[1,3,4,5,7],mathcal:[9,10,11],mathemat:13,mathit:[1,3],mathrm:[1,3,7,8,11],matnei:13,matplotlib:[1,3,4,8,9,11],matric:3,matrix:[3,4],matter:[7,13],matyszewska:13,max:[1,3,11],maxima:9,maximilian:12,maximis:[10,11],maximum:[8,9,10,11],mayer:13,mbd:[1,13],mccluskei:[12,13],mead:9,mean:[1,4,7,8,9,11],measur:[0,1,2,5,6,10,11,13],media:3,member:9,membran:13,menten:2,mention:8,merit:2,meshgrid:9,method:[3,4,13],methodolog:[1,2,4,9],metri:13,metric:[9,11],micel:13,micha:2,might:[2,13],milieux:13,minim:9,minimis:[9,11],minimum:[9,10],mkh10:[2,13],modal:9,model:[1,4,7,8,9,10,11,13],modifi:[3,4],modul:[4,9],mol:7,molecul:[2,6],molecular:7,monolay:13,more:[0,2,4,6,7,8,9,10,11],most:[3,4,5,9],moulin:12,move:9,movement:13,msfe:[8,13],much:[3,5],multi:9,multivariate_norm:9,muon:12,must:[2,4,8],mv1:9,mv2:9,mv:9,n:[3,4,7,8,11,13],n_:[3,11],n_a:7,n_c:8,nanostructur:13,nation:12,natur:[6,8],nazaruk:13,ndarrai:[1,3,7,9,11],nearbi:9,necessari:[3,4,9],need:2,neg:9,nelder:9,nelson:[12,13],neutron:[0,1,2,3,5,6,7,9,12],nevot:4,nevotc80:[4,13],newaxi:[1,3],ni:7,nickel:[4,7],nll:9,nois:1,noisi:1,non:9,none:9,norm:11,normal:[1,3,9,11],normal_wavevector:3,normalis:[1,11],note:[1,2,8,9],notic:[4,11],now:[0,3,4,8,9,11],np19:[3,13],np:[1,3,4,7,8,9,11],nuanc:5,number:[1,6,7,8,9,11],number_lay:3,number_q:3,numpi:[1,3,4,7,8,9,11],o:11,observ:[1,4,5,11],obtain:[1,4,7],obvious:5,offer:2,often:13,olar:13,onc:[9,13],ond:13,one:[8,9,10,11],ones:3,ones_lik:4,onli:[1,4,7,8,11],onlin:7,open:13,opin:13,opinion:13,optim:[9,11,13],optimis:[8,9],optimum:9,orang:[9,11],order:[5,9],organis:13,origin:13,other:[8,11],our:[1,2,4,5,6,7,8,9,11],out:[2,10],outsid:10,over:13,overal:[3,9,11],overview:0,oxford:13,p0:3,p1:3,p:[10,11,13],packag:[3,7],page:13,pai:13,panaccion:13,paper:13,par54:[3,13],par:13,param:[1,3,7,11],paramet:[3,4,5,6,7,8,9,10,11,13],parameteris:[6,8,13],pari:13,parker:13,parkin:13,parratt:[3,13],part:[1,11],particl:9,particular:[5,6],particularli:13,patch:4,path:[5,9],pattern:[0,5],paul:12,pdf:[9,11],peak:1,pedulla:13,per:6,perfect:4,perfectli:4,perform:[0,1,11],perpendicular:1,pg:1,phase:[1,2,3,13],phase_factor:3,phi:3,phi_0:3,phi_i:8,phi_n:3,phi_t:3,phil:13,phospholipid:13,phy:13,physic:[1,2,5,6,8,13],physica:13,physrev:13,pi:[1,3,11],pictori:8,piec:[1,4,7],pint:7,place:10,plane:[1,8],pleas:13,plot:[1,3,4,8,9,11,13],plt:[1,3,4,8,9,11],point:11,polar:13,polissag:13,popul:9,popular:2,posit:9,possibl:[1,2,4,5,8,9,11],posterior:10,prepar:[2,7],prescott:13,present:[1,2,4],press:13,pressur:8,preston:13,previou:[2,6],previous:[3,4,6,8],price:13,print:[7,9],probabl:[10,11],probe:[2,9,10],problem:[1,2,9,13],procedur:13,process:[2,6,7,9,13],prod:3,produc:[1,2,13],product:3,profil:[1,4,5],program:13,propag:[3,5,13],propos:2,propto:10,purnima:12,py:[4,9],pyplot:[1,3,4,8,9,11],python:[3,13],q2:1,q:[0,1,2,3,4,13],q_:1,q_x:1,q_y:1,qualiti:9,quantifi:9,quantiti:13,quelqu:13,question:13,quick:1,r2:1,r:[1,3,4,5,8,12,13],r_:[3,4],r_abel:3,r_fourier:3,r_microsl:4,r_nevot_croc:4,r_with_rough:4,radiat:[0,1],rai:[1,13],random:9,rang:[1,2,3,4,9,13],rasant:13,rather:[2,6,7],ratio:5,ration:9,rayon:13,rck:13,re:9,reach:[7,9],read:13,real:[3,4,5],realli:2,reason:7,recent:[8,13],reciev:13,rectangl:4,recurs:3,red:4,reduc:[6,8],refin:5,reflect:[1,2,4,5],reflecto:13,reflectometri:[0,2,3,4,5,6,7,8,9,11],refnx:[3,13],refract:[3,5],region:[1,4,8,9],relat:7,relationship:1,relev:[8,13],reli:3,render:1,reparameteris:[5,7,8,11,13],repeat:7,repositori:13,repres:[2,11],reproduc:3,requir:[6,13],res1:9,res2:9,resolut:[1,2],respect:1,result:[1,2,3,4,5,9],resultant_matrix:3,retriv:1,rev:13,review:13,rewrit:1,rho:[3,7],rho_:7,rho_ni:7,rho_ti:7,rho_to_beta:7,richardson:13,right:4,risat:13,robust:9,room:7,root:9,rout:9,rphysap:13,rsta:13,rstl:13,rule:4,s0021889811041446:13,s0921:13,s1359:13,s1600576718017016:13,s1600576718017296:13,s:[0,1,7,8,9,10,13],saaka:13,sai:1,same:[4,5,7,11],sampl:[0,1,2,4,7],sanchez:13,sansom:13,satija:13,scale:[1,13],scatter:[0,1,3,4,5,6,8,12,13],sche:13,scherrer:12,schlossman:12,school:13,sci:13,scienc:[2,13],scipi:[7,9,11],search:13,section:[2,5,6,9],see:[4,5,9],seen:[10,11],select:11,self:8,semi:9,sensit:1,seri:[3,4,5],set:7,set_xlabel:[4,11],set_xlim:4,set_ylabel:[4,11],set_ylim:4,shao:13,shape:[3,9],shortest:4,should:[1,4,6,8,9,11,13],show:[1,2,3,4,5,7,8,9,11,13],shown:[1,2,3,4,5,8,9,11],si:1,sigma2:4,sigma3:4,sigma5:4,sigma7:4,sigma:[4,11],sigma_:4,sigma_n:11,silic:13,silicon:[1,4,7],similar:[2,3],simpl:[1,2,5,6,7,8,9,10,13],simpli:9,simul:[2,4,5,6,7],sin:8,singl:[8,11],sio_2:1,sit:[8,11],siv11:[1,13],sivia:[1,10,13],sj06:[10,13],skill:13,skip:13,sko19:13,skoda:[12,13],slab:[4,6,8,13],sld_with_rough:4,smooth:[1,4],so:11,soc:13,soft:13,solid:13,solubl:8,solut:9,solv:13,solvat:8,solvent:[8,13],some:[0,1,2,4,5,8,9,10,11,13],someth:[0,2],son:13,sourc:[12,13],sp97:[9,13],space:[0,9,13],spallat:[12,13],speak:8,specif:[6,8],spectra:2,specular:13,spintron:13,springer:13,sqrt:3,squar:[1,3],sratifi:13,staff:8,standard:[11,12,13],start:[9,10],stat:[9,11],state:10,step:[4,9,10],stephen:12,still:[4,7],storn:13,straight_lin:11,straightforward:6,strand:8,stratifi:3,structur:[1,2,6,7,13],studi:[1,2,8,13],subject:13,subplot:[4,11],suggest:[10,13],sum:[1,3,7],sum_:[7,8,11],summat:11,superphas:3,sur:13,sure:13,surfac:[1,3,7,13],surfact:13,swarm:9,synthesi:2,system:[1,2,4,5,6,7,8,9,13],t:[9,13],t_t:8,tackl:2,tail:8,take:[0,2,9,10],taken:[3,5],tan80:[8,13],tanford:[8,13],techniqu:[6,13],technolog:12,temperatur:7,tend:1,term:[5,7,8,11],textquotesingl:13,than:[1,4,7,9],thei:[9,13],them:[4,11],theorem:10,theori:[1,13],therefor:[2,4,6,7,9,10],theta:[8,9,10,11],thi:[0,1,2,3,4,5,6,7,8,9,10,11],thick:[1,3,4,5,8],thin:4,thing:2,think:6,those:10,thought:1,three:[2,7],through:[3,4,5,13],thumb:4,tight_layout:11,time:[0,1,4,7],tiqu:13,titanium:7,tkh:[9,13],togeth:3,tom:12,tool:[1,2,6],top4:9,top:1,toperverg:13,total:13,toward:[1,9,13],tradit:[7,8,13],tran:13,transform:[2,3,5,13],translat:6,transmitt:3,treec:13,trigonometri:8,tude:13,turn:9,tutori:[10,13],two:[2,3,4,5,6,8,9],txt:11,typic:[2,4,5,6,7,8,9,11],tz07:13,u:7,uantum:13,uncertainti:11,unclear:7,under:[1,3,8],underli:[2,11],understand:[2,3,5,6,10,13],unintuit:6,uniqu:9,unit:0,unitregistri:7,univers:[12,13],unlik:8,unphys:[1,4],until:7,up:9,uphil:9,us:[2,3,4,6,7,8,9,10,11,13],useless:1,user:[1,13],utilis:1,valu:[1,3,7,8,9,10,11],vari:[7,9],variabl:7,varieti:9,vector:3,veri:[4,8,9],verr:13,version:1,vibrat:2,video:0,visualis:[1,4],vot:13,w:[7,13],wa:[1,2,5,10,13],wai:[2,8],watch:0,water:[8,13],wave:[3,5],wavevector:[1,3],wc19:13,we:[0,1,2,4,5,6,7,8,10,11,13],weight:7,welbourn:13,well:2,were:10,what:13,when:[3,5,8,9,10,11],where:[1,2,3,4,5,7,8,9,10,11],which:[0,1,3,4,7,8,9,10,11],width:4,wiesendang:13,wilei:13,within:10,without:[1,2,4],word:[2,13],work:[4,6,13],workflow:2,workshop:13,wormington:13,would:[2,4,5,8,10],wpmb99:[9,13],written:[1,11],wwe:8,x:[1,9,11,13],x_n:11,xlabel:[1,3,4,8,9],xy:8,y:[9,10,11,13],y_fit:11,y_n:11,ylabel:[1,3,4,8,9],you:[1,2,10,11,13],your:[8,13],yscale:[1,3,4],yy:11,z:[1,3,4,5],zabel:13,zentrum:12,zero:3,zeros_lik:[1,3],zhou:13,zorder:11,zq:1,ztbt07:13},titles:["An introduction to Fourier transforms","Fourier transforms for reflectometry analysis","What is model-dependent analysis?","How we calculate the reflectivity of a slab model","Roughness and microslicing","The \u201cslab model\u201d","A case for model reparameterisation","NiTi multilayer example","Phospholipid monolayer example","How do we maximise the likelihood?","How to leverage our prior knowledge?","What is the likelihood?","Contributors","Introduction to neutron reflectometry fitting"],titleterms:{"case":6,"do":9,A:[6,10],The:[1,5],about:13,algorithm:3,an:[0,1],analysi:[1,2],angl:8,approxim:1,area:8,bibliographi:13,born:1,calcul:3,chain:8,contributor:12,densiti:7,depend:2,exampl:[1,7,8],fit:13,fourier:[0,1],gradient:9,how:[3,9,10],interfac:1,interfaci:4,introduct:[0,13],knowledg:10,layer:1,length:7,leverag:10,likelihood:[9,11],mass:7,materi:13,maximis:9,method:9,microsl:4,model:[2,3,5,6],molecul:8,monolay:8,multilay:7,neutron:13,niti:7,our:10,oxid:1,per:8,phospholipid:8,prior:10,problem:4,reflect:[3,13],reflectometri:[1,13],reparameteris:6,rough:4,scatter:7,singl:1,slab:[3,5],specular:1,stochast:9,thi:13,tilt:8,transform:[0,1],uniform:10,us:1,vs:13,we:[3,9],what:[0,2,11]}})

diff --git a/intro.html b/intro.html
@@ -464,7 +464,7 @@ title="Print to PDF"
 <section id="about-this-material">
 <h2>About this material<a class="headerlink" href="#about-this-material" title="Permalink to this headline">#</a></h2>
 <p>This material is gradually being developed and if you are interested in contributing content please feel free to open an <a class="reference external" href="https://github.com/reflectivity/learn/issues/new/choose">issue</a> on the Github repository.</p>
-<p>This material was originally developed by <a class="reference external" href="mailto:andrew&#46;mccluskey&#37;&#52;&#48;ess&#46;eu">Andrew McCluskey</a> from the <a class="reference external" href="https://europeanspallationsource.se/">European Spallation Source</a> and through the ISIS Neutron Reflectometry School and Open Reflectometry Standards Organisation Workshop 2022 has recieved contributions and feedback from many <span class="xref myst">reflectometry experts</span></p>
+<p>This material was originally developed by <a class="reference external" href="mailto:andrew&#46;mccluskey&#37;&#52;&#48;ess&#46;eu">Andrew McCluskey</a> from the <a class="reference external" href="https://europeanspallationsource.se/">European Spallation Source</a> and through the ISIS Neutron Reflectometry School and Open Reflectometry Standards Organisation Workshop 2022 has recieved contributions and feedback from many <a class="reference external" href="https://github.com/reflectivity/isis_school/blob/main/contributors.md">reflectometry experts</a>.</p>
 <div class="admonition note">
 <p class="admonition-title">Note</p>
 <p>In this course, we make use of the Python programming language heavily to show mathematics and plot figures.

diff --git a/5_fitting_processes_and_problems/how_do_we_maximise_the_likelihood.html b/5_fitting_processes_and_problems/how_do_we_maximise_the_likelihood.html
@@ -609,7 +609,7 @@ This is necessary as, as we can see from the overall maximum, the differential e
 </div>
 <div class="cell_output docutils container">
 <img alt="../_images/how_do_we_maximise_the_likelihood_6_0.png" src="../_images/how_do_we_maximise_the_likelihood_6_0.png" />
-<div class="output stream highlight-myst-ansi notranslate"><div class="highlight"><pre><span></span>Overall Maximum: [7.42370197 1.63254653]
+<div class="output stream highlight-myst-ansi notranslate"><div class="highlight"><pre><span></span>Overall Maximum: [8.00801109 2.19516583]
 </pre></div>
 </div>
 </div>

diff --git a/_sources/intro.md b/_sources/intro.md
@@ -20,7 +20,7 @@ You might find both words being used.
 
 This material is gradually being developed and if you are interested in contributing content please feel free to open an [issue](https://github.com/reflectivity/learn/issues/new/choose) on the Github repository. 
 
-This material was originally developed by [Andrew McCluskey](mailto:andrew.mccluskey@ess.eu) from the [European Spallation Source](https://europeanspallationsource.se/) and through the ISIS Neutron Reflectometry School and Open Reflectometry Standards Organisation Workshop 2022 has recieved contributions and feedback from many [reflectometry experts](./contributors.html)
+This material was originally developed by [Andrew McCluskey](mailto:andrew.mccluskey@ess.eu) from the [European Spallation Source](https://europeanspallationsource.se/) and through the ISIS Neutron Reflectometry School and Open Reflectometry Standards Organisation Workshop 2022 has recieved contributions and feedback from many [reflectometry experts](https://github.com/reflectivity/isis_school/blob/main/contributors.md).
 
 ```{note}
 In this course, we make use of the Python programming language heavily to show mathematics and plot figures. 
